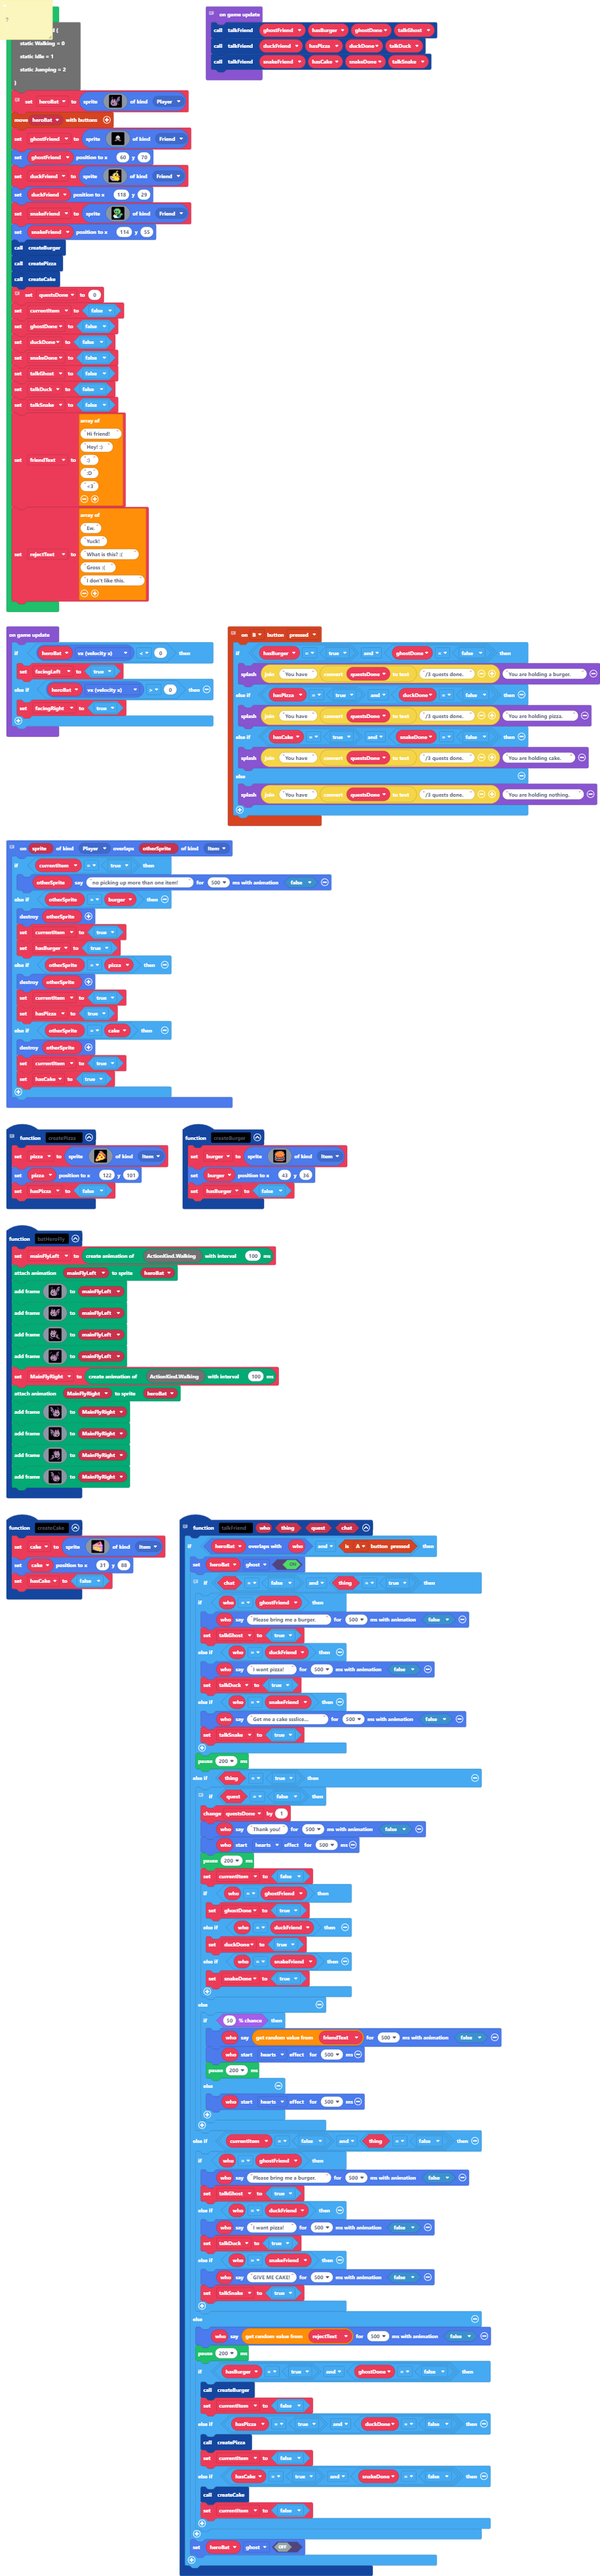
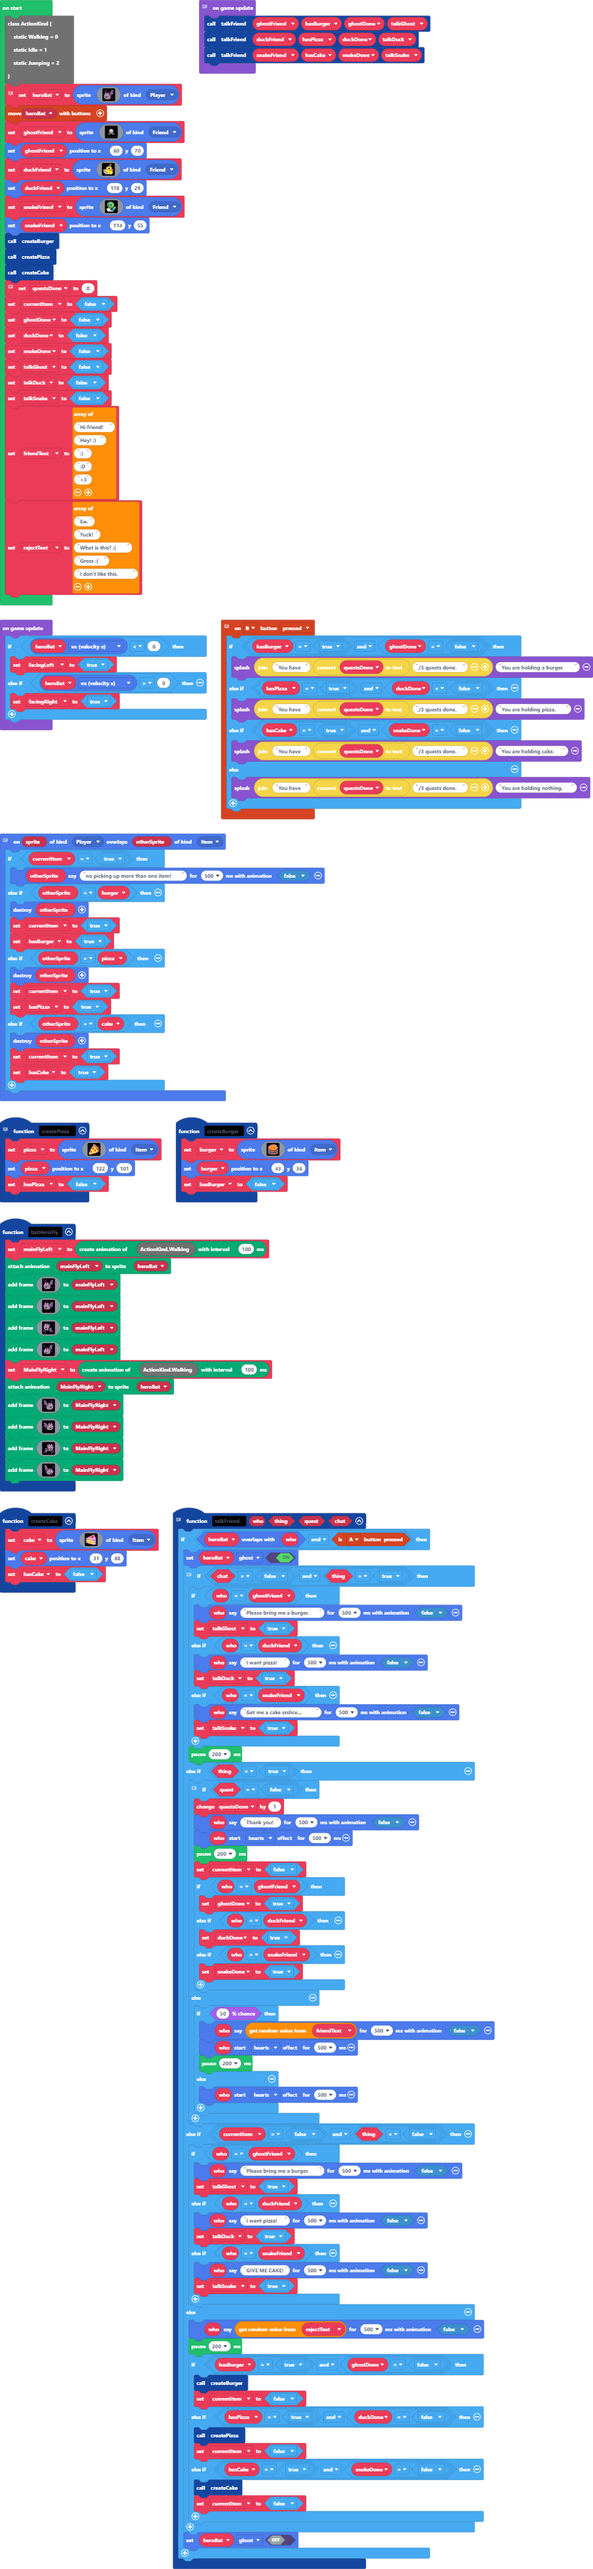
Update main.blocks, main.ts

diff --git a/main.ts b/main.ts
@@ -322,9 +322,6 @@ function talkFriend (who: Sprite, thing: boolean, quest: boolean, chat: boolean)
         heroBat.setFlag(SpriteFlag.Ghost, false)
     }
 }
-/**
- * ?
- */
 let facingRight = false
 let facingLeft = false
 let MainFlyRight: animation.Animation = null
